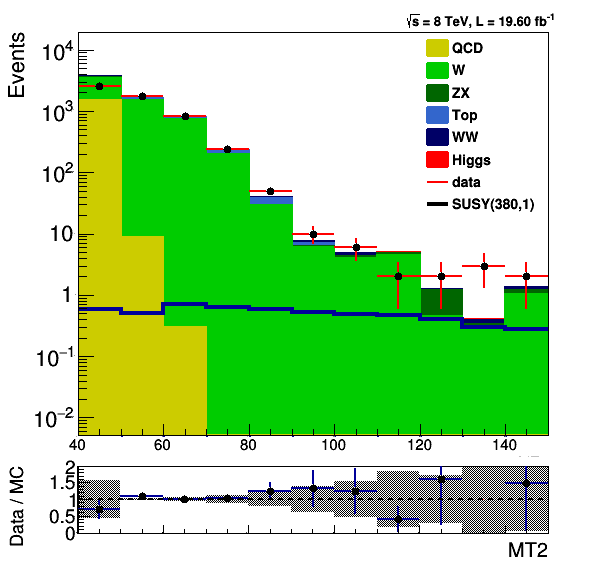
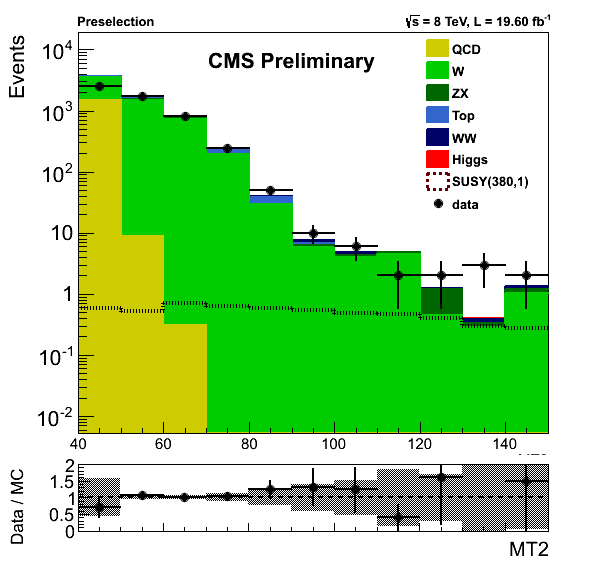
MT2 fig for eletau updated.

diff --git a/notes/SUS-14-022/trunk/SelectionEleTau/MT2.C b/notes/SUS-14-022/trunk/SelectionEleTau/MT2.C
@@ -376,10 +376,10 @@ void MT2()
    h2_copy19->SetStats(0);
 
    ci = TColor::GetColor("#ff0000");
-   h2_copy19->SetFillColor(ci);
+   h2_copy19->SetFillColor(1);
 
    ci = TColor::GetColor("#ff0000");
-   h2_copy19->SetLineColor(ci);
+   h2_copy19->SetLineColor(1);
    h2_copy19->SetLineWidth(2);
    h2_copy19->SetMarkerStyle(20);
    h2_copy19->GetXaxis()->SetLabelFont(42);
@@ -424,7 +424,8 @@ void MT2()
    MT2PreCut_MT2_SUSY_380_120->SetEntries(2176);
    MT2PreCut_MT2_SUSY_380_120->SetDirectory(0);
    MT2PreCut_MT2_SUSY_380_120->SetStats(0);
-   MT2PreCut_MT2_SUSY_380_120->SetFillStyle(0);
+   MT2PreCut_MT2_SUSY_380_120->SetLineStyle(3);
+   MT2PreCut_MT2_SUSY_380_120->SetLineColor(1);
    MT2PreCut_MT2_SUSY_380_120->SetLineWidth(4);
    MT2PreCut_MT2_SUSY_380_120->SetMarkerStyle(20);
    MT2PreCut_MT2_SUSY_380_120->GetXaxis()->SetLabelFont(42);
@@ -440,7 +441,7 @@ void MT2()
    MT2PreCut_MT2_SUSY_380_120->GetZaxis()->SetTitleSize(0.035);
    MT2PreCut_MT2_SUSY_380_120->GetZaxis()->SetTitleFont(42);
    MT2PreCut_MT2_SUSY_380_120->Draw("samehist");
-   TLatex *   tex = new TLatex(0.13,0.943,"");
+   TLatex *   tex = new TLatex(0.13,0.943,"Preselection");
 tex->SetNDC();
    tex->SetTextSize(0.03);
    tex->SetLineWidth(2);
@@ -556,37 +557,68 @@ tex->SetNDC();
    entry->SetTextFont(62);
    entry=leg->AddEntry("MT2PreCut_MT2_Higgs","Higgs","f");
 
-   ci = TColor::GetColor("#ff0000");
-   entry->SetFillColor(ci);
+ //   ci = TColor::GetColor("#ff0000");
+//    entry->SetFillColor(ci);
+//    entry->SetFillStyle(1001);
+
+//    ci = TColor::GetColor("#ff0000");
+//    entry->SetLineColor(ci);
+//    entry->SetLineStyle(1);
+//    entry->SetLineWidth(2);
+//    entry->SetMarkerColor(1);
+//    entry->SetMarkerStyle(21);
+//    entry->SetMarkerSize(1);
+//    entry->SetTextFont(62);
+//    entry=leg->AddEntry(h2_copy19,"data","l");
+
+//    ci = TColor::GetColor("#ff0000");
+//    entry->SetLineColor(ci);
+//    entry->SetLineStyle(1);
+//    entry->SetLineWidth(2);
+//    entry->SetMarkerColor(1);
+//    entry->SetMarkerStyle(21);
+//    entry->SetMarkerSize(1);
+//    entry->SetTextFont(62);
+//    entry=leg->AddEntry(MT2PreCut_MT2_SUSY_380_120,"SUSY(380,1)","f");
+//    entry->SetLineColor(1);
+//    entry->SetLineStyle(1);
+//    entry->SetLineWidth(4);
+//    entry->SetMarkerColor(1);
+//    entry->SetMarkerStyle(21);
+//    entry->SetMarkerSize(1);
+//    entry->SetTextFont(62);
+   entry->SetFillColor(2);
+   entry->SetFillStyle(1001);
+   entry->SetLineColor(2);
+   entry->SetLineStyle(1);
+   entry->SetLineWidth(2);
+   entry->SetMarkerColor(1);
+   entry->SetMarkerStyle(21);
+   entry->SetMarkerSize(1);
+   entry=leg->AddEntry("NULL","SUSY(380,1)","f");
    entry->SetFillStyle(1001);
 
-   ci = TColor::GetColor("#ff0000");
+   ci = TColor::GetColor("#660000");
    entry->SetLineColor(ci);
-   entry->SetLineStyle(1);
-   entry->SetLineWidth(2);
+   entry->SetLineStyle(2);
+   entry->SetLineWidth(3);
    entry->SetMarkerColor(1);
    entry->SetMarkerStyle(21);
    entry->SetMarkerSize(1);
-   entry->SetTextFont(62);
-   entry=leg->AddEntry("MT2PreCut_MT2_data","data","l");
-
-   ci = TColor::GetColor("#ff0000");
-   entry->SetLineColor(ci);
-   entry->SetLineStyle(1);
-   entry->SetLineWidth(2);
-   entry->SetMarkerColor(1);
-   entry->SetMarkerStyle(21);
-   entry->SetMarkerSize(1);
-   entry->SetTextFont(62);
-   entry=leg->AddEntry("MT2PreCut_MT2_SUSY_380_1","SUSY(380,1)","l");
+   entry=leg->AddEntry("NULL","data","p");
    entry->SetLineColor(1);
    entry->SetLineStyle(1);
-   entry->SetLineWidth(4);
+   entry->SetLineWidth(1);
    entry->SetMarkerColor(1);
-   entry->SetMarkerStyle(21);
+   entry->SetMarkerStyle(20);
    entry->SetMarkerSize(1);
-   entry->SetTextFont(62);
+
+
    leg->Draw();
+    tex = new TLatex(70.3335,5015.18,"CMS Preliminary");
+   tex->SetLineWidth(2);
+   tex->Draw();
+
    MT2_ratio_AllSUSY_plotpad_MT2_MT2PreCut->Modified();
    MT2_ratio_AllSUSYc_ratio_MT2_MT2PreCut->cd();
   
@@ -688,7 +720,8 @@ tex->SetNDC();
    h2_copy23->SetStats(0);
 
    ci = TColor::GetColor("#ff0000");
-   h2_copy23->SetFillColor(ci);
+   h2_copy23->SetFillColor(1);
+   h2_copy23->SetLineColor(1);
    h2_copy23->SetLineWidth(2);
    h2_copy23->SetMarkerStyle(20);
    h2_copy23->GetXaxis()->SetLabelFont(42);
